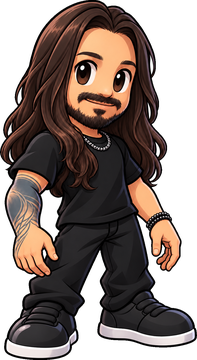
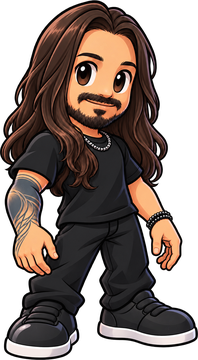
Jogo v1: animações da v2 com mapa estático
Claude-Session: https://claude.ai/code/session_01QVcosfxnKWdKdans2zTJsk

diff --git a/patriciaealexandre/jogo/index.html b/patriciaealexandre/jogo/index.html
@@ -35,7 +35,12 @@ html,body{height:100%;margin:0;background:var(--oliva-escuro);color:var(--linho)
 .recado{position:absolute;left:50%;top:calc(env(safe-area-inset-top,0px) + 66px);transform:translate(-50%,-6px);z-index:5;
   background:var(--linho);color:var(--oliva);padding:.45rem .9rem;font-size:1rem;white-space:nowrap;opacity:0;transition:opacity .25s,transform .25s;pointer-events:none}
 .recado.on{opacity:1;transform:translate(-50%,0)}
-.palco{flex:1;min-height:0;display:grid;place-items:center}
+.palco{flex:1;min-height:0;display:grid;place-items:center;position:relative}
+.faixa{position:fixed;z-index:6;left:50%;bottom:calc(env(safe-area-inset-bottom,0px) + 14px);width:min(calc(100% - 24px),24rem);transform:translate(-50%,8px);background:var(--linho);color:var(--oliva);text-align:center;padding:.8rem 1.4rem .9rem;opacity:0;transition:opacity .6s,transform .6s;pointer-events:none;box-shadow:0 8px 24px rgba(20,24,14,.35)}
+.faixa.on{opacity:1;transform:translate(-50%,0)}
+.faixa b{display:block;font-weight:400;font-style:italic;font-size:1.7rem;line-height:1.1}
+.faixa span{display:block;margin-top:.25rem;font-size:.8rem;letter-spacing:.2em;text-transform:uppercase}
+.app.final .base{visibility:hidden}
 #mapa{display:block;image-rendering:pixelated;box-shadow:0 10px 30px rgba(20,24,14,.45);touch-action:none;cursor:pointer}
 .base{flex:none;display:flex;align-items:stretch;justify-content:center;gap:10px;margin:12px auto 0;width:min(100%,24rem)}
 .recomeca{appearance:none;border:0;flex:none;padding:0 1rem;background:transparent;color:var(--linho);font-family:var(--serif);font-size:.95rem;letter-spacing:.08em;text-transform:uppercase;box-shadow:inset 0 0 0 1px var(--salvia);cursor:pointer}
@@ -79,7 +84,7 @@ html,body{height:100%;margin:0;background:var(--oliva-escuro);color:var(--linho)
     <div class="slots" id="slots"></div>
   </div>
   <div class="recado" id="recado" role="status" aria-live="polite"></div>
-  <div class="palco" id="palco"><canvas id="mapa" aria-label="Jardim: toque para andar"></canvas></div>
+  <div class="palco" id="palco"><canvas id="mapa" aria-label="Jardim: toque para andar"></canvas></div><div class="faixa" id="faixa"><b>Alex + Pati</b><span>Reserve essa data</span></div>
   <div class="base"><button class="recomeca" id="btn-recomeca">Recomeçar</button><button class="estouro" id="btn-estouro">Soltar confete</button></div>
 </div>
 
@@ -90,8 +95,8 @@ html,body{height:100%;margin:0;background:var(--oliva-escuro);color:var(--linho)
   <p class="guia sub">Ache nossa família no menor tempo possível e revele algo que você não pode esquecer!</p>
   <p class="escolha-titulo">Escolha um personagem</p>
   <div class="escolha">
-    <button class="carta" data-p="alex"><img src="alex.png?v=2" width="197" height="360" alt=""><span>Alex</span></button>
-    <button class="carta" data-p="pati"><img src="pati.png?v=2" width="177" height="360" alt=""><span>Pati</span></button>
+    <button class="carta" data-p="alex"><img src="alex.png?v=3" width="198" height="360" alt=""><span>Alex</span></button>
+    <button class="carta" data-p="pati"><img src="pati.png?v=3" width="177" height="360" alt=""><span>Pati</span></button>
   </div>
 </div></section>
 
@@ -112,7 +117,7 @@ html,body{height:100%;margin:0;background:var(--oliva-escuro);color:var(--linho)
 (function(){
 'use strict';
 var T=16, Z=2, COLS=11, ROWS=13, RANGE=2, FUSE=1.6, FLAME=0.5, STEP=0.15;
[2 lines of base64/hex data omitted]
 var NOME={alex:'Alex',pati:'Pati',chico:'Chico',bono:'Bono'};
 var SP={}, prontos=0;
 var FR={}, FACE={alex:1,pati:1,bono:-1,chico:1}, PERNA={alex:.70,pati:.70,bono:.72,chico:.72};
@@ -148,6 +153,7 @@ var G=null, heroi, procurados;
 var START={c:1,r:6};
 function dist(a,b){return Math.abs(a[0]-b[0])+Math.abs(a[1]-b[1]);}
 function novoJogo(id){
+  document.getElementById('faixa').classList.remove('on');document.querySelector('.app').classList.remove('final');
   heroi=id; procurados=['chico','bono',id==='alex'?'pati':'alex'];
   var grid=[],r,c;
   for(r=0;r<ROWS;r++){grid.push([]);for(c=0;c<COLS;c++){
@@ -165,7 +171,7 @@ function novoJogo(id){
     }
     var p=cand[Math.floor(Math.random()*cand.length)]; usados.push(p); grid[p[1]][p[0]]='B'; esconde[p[1]+','+p[0]]=pid;
   });
-  G={grid:grid,esconde:esconde,bombas:[],chamas:[],achados:[],trupe:[],rastro:[],caminho:[],
+  G={grid:grid,esconde:esconde,abrindo:[],reuniao:null,bombas:[],chamas:[],achados:[],trupe:[],rastro:[],caminho:[],
      p:{c:START.c,r:START.r,x:START.c*T,y:START.r*T,mov:null,ai:0,inv:0,anda:0,face:1},
      t0:null,tempo:0,fim:false,cascata:null,particulas:[],alvo:null};
   montaSlots(); atualizaTempo(0);
@@ -203,15 +209,17 @@ function explode(b){
   });
 }
 var CONF=['#e8e5d6','#ffffff','#c4c3a5','#d9b46a','#c45a4e','#f2d6d0'];
+function festa(c,r,n){for(var i=0;i<n;i++){var a=-Math.PI/2+(Math.random()-.5)*2.2,v=30+Math.random()*40;G.particulas.push({x:c*T+8,y:r*T+4,vx:Math.cos(a)*v,vy:Math.sin(a)*v,t:.8+Math.random()*.5,cor:CONF[Math.floor(Math.random()*CONF.length)]});}}
 function chama(c,r){
   G.chamas.push({c:c,r:r,t:FLAME});
   for(var i=0;i<12;i++){var a=Math.random()*Math.PI*2,v=16+Math.random()*36;
     G.particulas.push({x:c*T+8,y:r*T+8,vx:Math.cos(a)*v,vy:Math.sin(a)*v-10,t:.5+Math.random()*.4,cor:CONF[Math.floor(Math.random()*CONF.length)]});}
 }
 function quebra(c,r){
-  G.grid[r][c]='.';
+  G.grid[r][c]='.';G.abrindo.push({c:c,r:r,t:.4});
+  for(var j=0;j<10;j++){var an=Math.random()*Math.PI*2,vv=20+Math.random()*34;G.particulas.push({x:c*T+8,y:r*T+8,vx:Math.cos(an)*vv,vy:Math.sin(an)*vv-18,t:.5+Math.random()*.4,cor:['#74864b','#91a560','#b4c47f','#56653a'][j%4],f:2});}
   var id=G.esconde[r+','+c];
-  if(id){delete G.esconde[r+','+c];G.achados.push({id:id,c:c,r:r,x:c*T,y:r*T,junto:false,pulo:0});recado(NOME[id]+' apareceu!');}
+  if(id){delete G.esconde[r+','+c];G.achados.push({id:id,c:c,r:r,x:c*T,y:r*T,junto:false,pulo:0,festa:1.2});festa(c,r,26);recado(NOME[id]+' apareceu!');}
 }
 function machuca(){if(G.p.inv>0||G.p.ai>0||G.fim)return;G.p.ai=1.1;G.p.sujo=2.6;G.p.mov=null;G.caminho=[];}
 function chega(){
@@ -220,11 +228,14 @@ function chega(){
     if(!a.junto&&a.c===p.c&&a.r===p.r){
       a.junto=true;G.trupe.push(a);
       var s=document.getElementById('slot-'+a.id);if(s)s.classList.add('ok');
-      recado(NOME[a.id]+' entrou na festa!');
+      festa(a.c,a.r,20);recado(NOME[a.id]+' entrou na festa!');
       if(G.trupe.length===procurados.length)vence();
     }
   });
 }
+/* Final: todos se reúnem entre o 24 e o 07 e aparece a faixa */
+var LUGAR={chico:[3,6],alex:[4,6],pati:[6,6],bono:[7,6]};
+function reune(){G.reuniao={t:0};document.querySelector('.app').classList.add('final');setTimeout(function(){document.getElementById('faixa').classList.add('on');festa(5,6,40);},1500);setTimeout(mostraFim,5200);}
 function vence(){
   G.fim=true;G.tempo=(performance.now()-G.t0)/1000;G.caminho=[];G.bombas=[];
   var lista=[];
@@ -290,8 +301,14 @@ function update(dt){
       if(nx[0]!==p.c)p.face=nx[0]>p.c?1:-1;p.mov={c0:p.c,r0:p.r,k:0};p.c=nx[0];p.r=nx[1];
     } else {G.caminho=[];}
   }
+  if(G.reuniao){var todos=[{id:heroi,o:p}].concat(G.trupe.map(function(a){return {id:a.id,o:a};}));
+    todos.forEach(function(e){var L=LUGAR[e.id],dx=L[0]*T-e.o.x,dy=L[1]*T-e.o.y,mv=Math.abs(dx)+Math.abs(dy)>.6;e.o.x+=dx*Math.min(1,dt*3.2);e.o.y+=dy*Math.min(1,dt*3.2);
+      e.o.anda=mv?(e.o.anda||0)+dt:0;e.o.face=mv?(Math.abs(dx)>.3?(dx>0?1:-1):e.o.face):(L[0]<5?1:-1);});
+    p.mov=null;G.caminho=[];
+  } else
   G.trupe.forEach(function(a,i){var al=G.rastro[i]||{c:p.c,r:p.r},dx=al.c*T-a.x;if(Math.abs(dx)>.6)a.face=dx>0?1:-1;a.x+=dx*Math.min(1,dt*11);a.y+=(al.r*T-a.y)*Math.min(1,dt*11);a.anda=(Math.abs(dx)+Math.abs(al.r*T-a.y)>.6)?(a.anda||0)+dt:0;});
-  G.achados.forEach(function(a){a.pulo+=dt;});
+  G.achados.forEach(function(a){a.pulo+=dt;if(a.festa>0)a.festa-=dt;});
+  for(var j=G.abrindo.length-1;j>=0;j--){G.abrindo[j].t-=dt;if(G.abrindo[j].t<=0)G.abrindo.splice(j,1);}
   G.bombas.slice().forEach(function(b){b.t-=dt;if(b.t<=0&&G.bombas.indexOf(b)>=0)explode(b);});
   for(var i=G.chamas.length-1;i>=0;i--){var f=G.chamas[i];f.t-=dt;
     if(f.t>FLAME-.35&&!G.fim){if(Math.round(p.x/T)===f.c&&Math.round(p.y/T)===f.r)machuca();}
@@ -299,7 +316,7 @@ function update(dt){
   for(i=G.particulas.length-1;i>=0;i--){var q=G.particulas[i];q.t-=dt;q.x+=q.vx*dt;q.y+=q.vy*dt;q.vy+=60*dt;if(q.t<=0)G.particulas.splice(i,1);}
   if(G.cascata){var cs=G.cascata;cs.t-=dt;
     while(cs.t<=0&&cs.i<cs.lista.length){var it=cs.lista[cs.i++];quebra(it.c,it.r);chama(it.c,it.r);cs.t+=.03;}
-    if(cs.i>=cs.lista.length&&!cs.pronto){cs.pronto=true;setTimeout(mostraFim,2200);}
+    if(cs.i>=cs.lista.length&&!cs.pronto){cs.pronto=true;setTimeout(reune,500);}
   }
 }
 
@@ -353,18 +370,19 @@ function draw(){
   if(!G){ctx.fillStyle='#5e6848';ctx.fillRect(0,0,COLS*T,ROWS*T);return;}
   var r,c;
   for(r=0;r<ROWS;r++)for(c=0;c<COLS;c++){var t=G.grid[r][c];if(t==='W'){muro(c,r);continue;}chao(c,r,t==='B');if(t==='B')arbusto(c,r);}
+  G.abrindo.forEach(function(a){var k=1-a.t/.4,s=1+k*.35;ctx.save();ctx.globalAlpha=Math.max(0,1-k*1.4);ctx.translate(a.c*T+8,a.r*T+10);ctx.scale(s,s);ctx.drawImage(ARB[(a.c*7+a.r*3)%2],-8,-10);ctx.restore();});
   if(G.alvo){ctx.strokeStyle='rgba(232,229,214,'+(G.alvo.t*1.2).toFixed(2)+')';ctx.lineWidth=1;ctx.strokeRect(G.alvo.c*T+1.5,G.alvo.r*T+1.5,T-3,T-3);}
   G.chamas.forEach(function(f){ctx.fillStyle='rgba(255,255,255,'+(Math.max(0,f.t/FLAME)*.5).toFixed(2)+')';ctx.fillRect(f.c*T+1,f.r*T+1,T-2,T-2);});
   G.bombas.forEach(bomba);
   var L=[];
-  G.achados.forEach(function(a){if(!a.junto)L.push({id:a.id,x:a.x,y:a.y,bob:Math.floor(a.pulo*3)%2,balao:'!',face:Math.floor(a.pulo*.8)%2?1:-1});});
+  G.achados.forEach(function(a){if(!a.junto)L.push({id:a.id,x:a.x,y:a.y-(a.festa>0?Math.abs(Math.sin(a.festa*9))*5:0),bob:Math.floor(a.pulo*3)%2,balao:'!',face:Math.floor(a.pulo*.8)%2?1:-1});});
   G.trupe.forEach(function(a){L.push({id:a.id,x:a.x,y:a.y,anda:a.anda,face:a.face});});
   var pis=G.p.inv>0&&Math.floor(G.p.inv*10)%2===0;
-  L.push({id:heroi,x:G.p.x,y:G.p.y,anda:G.p.mov?G.p.anda:0,face:G.p.face,alpha:pis?.4:1,balao:G.p.ai>0?'ai!':null,sujo:G.p.ai>0||G.p.sujo>0});
+  L.push({id:heroi,x:G.p.x,y:G.p.y,anda:(G.p.mov||G.reuniao)?G.p.anda:0,face:G.p.face,alpha:pis?.4:1,balao:G.p.ai>0?'ai!':null,sujo:G.p.ai>0||G.p.sujo>0});
   L.sort(function(a,b){return a.y-b.y;});
   L.forEach(boneco);
   L.forEach(function(o){if(o.balao)balao(o.balao,o.x,o.y,SP[o.id].height/Z);});
-  G.particulas.forEach(function(q){ctx.globalAlpha=Math.min(1,q.t*2);ctx.fillStyle=q.cor;ctx.fillRect(q.x,q.y,1,1);});
+  G.particulas.forEach(function(q){ctx.globalAlpha=Math.min(1,q.t*2);ctx.fillStyle=q.cor;ctx.fillRect(q.x,q.y,q.f||1,q.f?1.5:1);});
   ctx.globalAlpha=1;
 }
 
